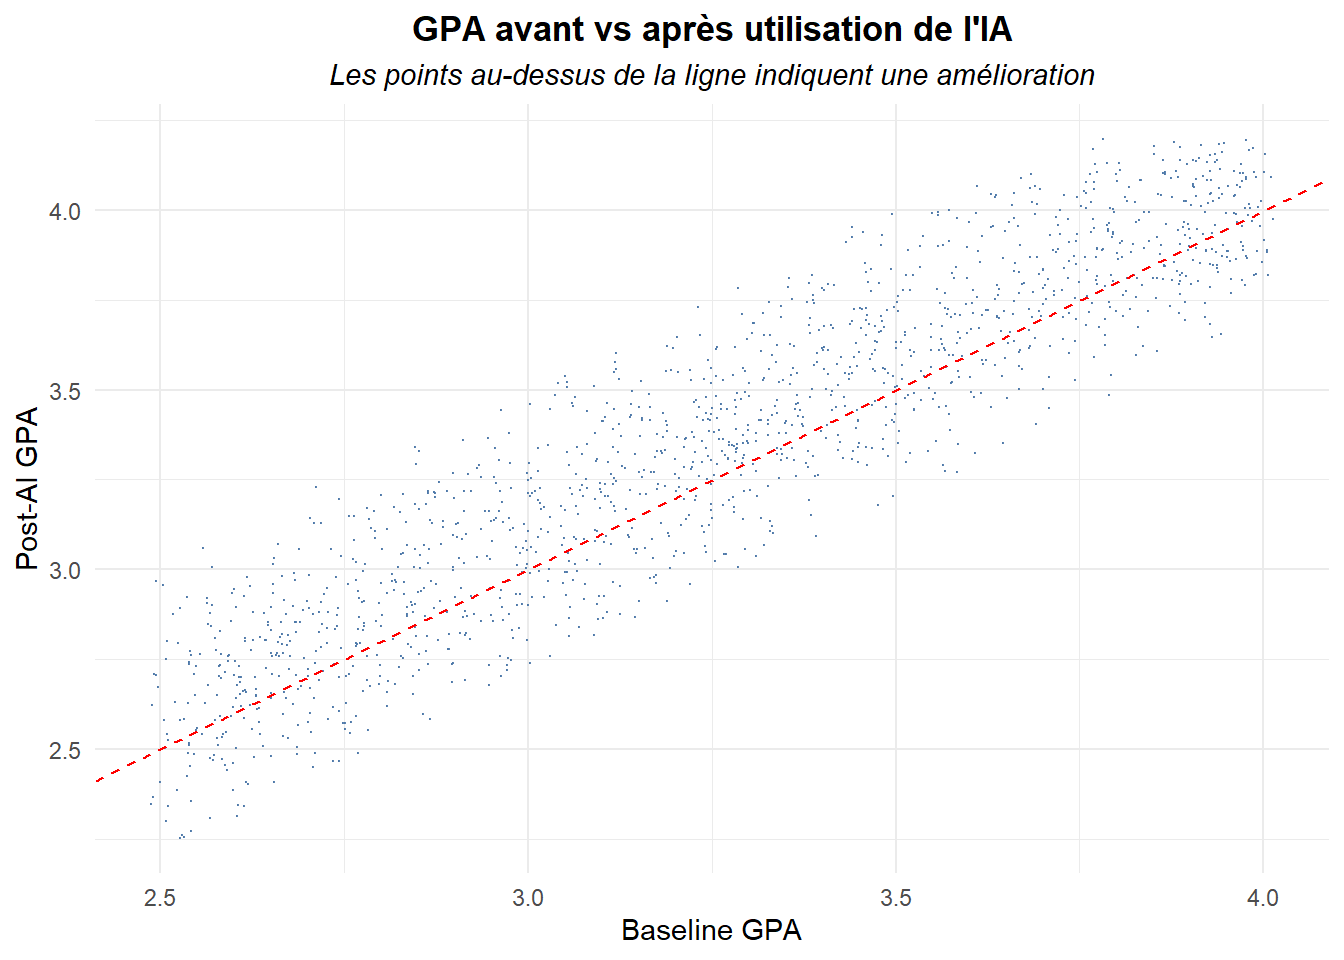
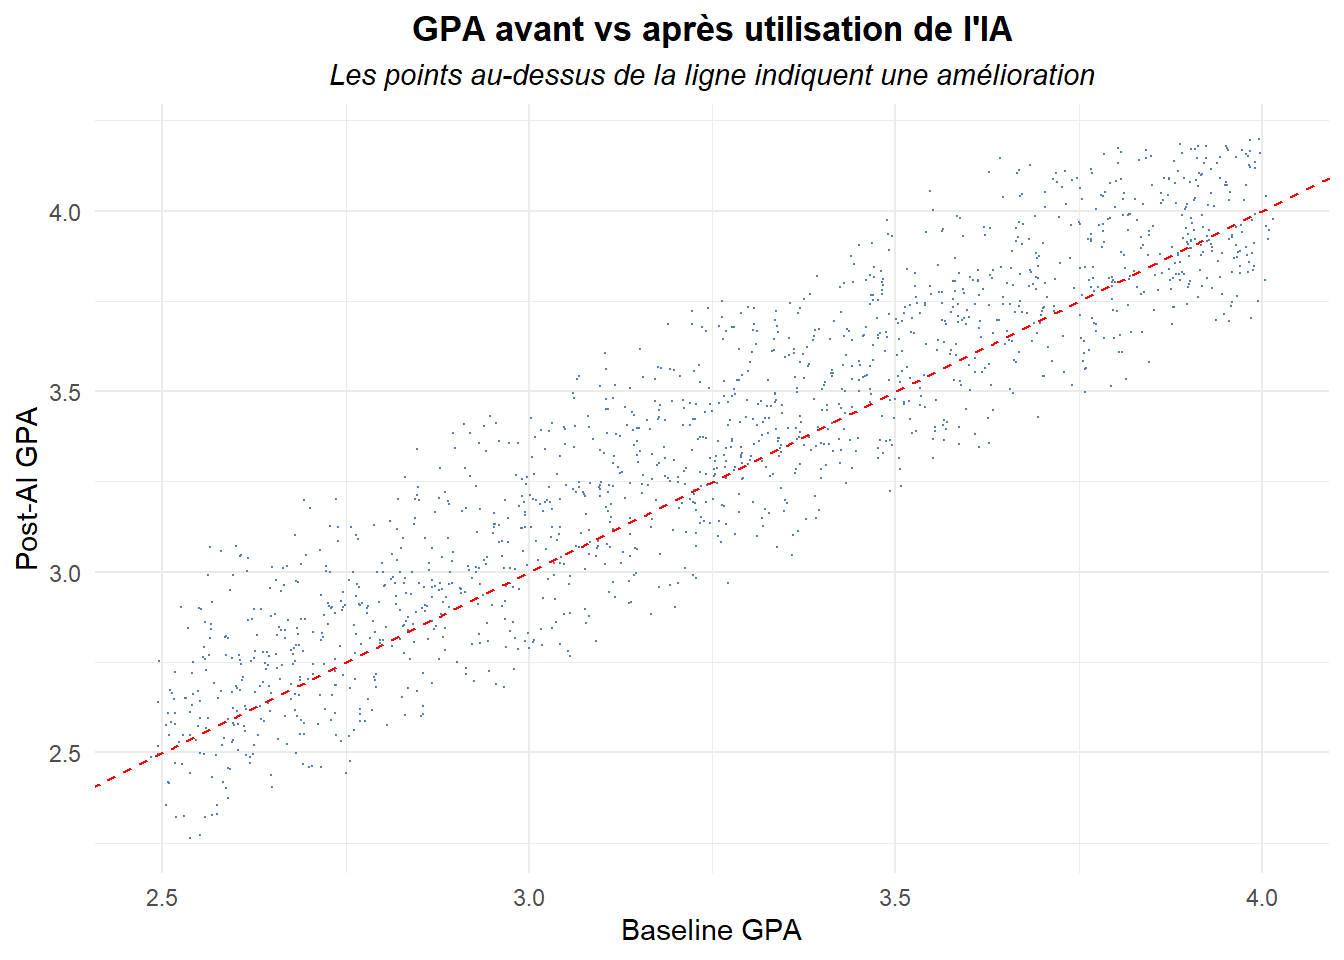
Update site

diff --git a/docs/fr/projects.html b/docs/fr/projects.html
@@ -181,10 +181,10 @@ pre > code.sourceCode > span > a:first-child::before { text-decoration: underlin
   <ul class="collapse">
   <li><a href="#ressources-du-projet" id="toc-ressources-du-projet" class="nav-link" data-scroll-target="#ressources-du-projet">Ressources du projet</a></li>
   <li><a href="#sec-project-overview" id="toc-sec-project-overview" class="nav-link" data-scroll-target="#sec-project-overview">Aperçu du projet</a></li>
-  <li><a href="#analyse-des-données" id="toc-analyse-des-données" class="nav-link" data-scroll-target="#analyse-des-données">Analyse des données</a></li>
-  <li><a href="#sec-analytical-questions" id="toc-sec-analytical-questions" class="nav-link" data-scroll-target="#sec-analytical-questions">Questions analytiques et variables principales</a></li>
-  <li><a href="#sec-data-preparation" id="toc-sec-data-preparation" class="nav-link" data-scroll-target="#sec-data-preparation">Chargement et préparation des données (character variables -&gt; factors)</a>
+  <li><a href="#analyse-des-données" id="toc-analyse-des-données" class="nav-link" data-scroll-target="#analyse-des-données">Analyse des données</a>
   <ul class="collapse">
+  <li><a href="#sec-analytical-questions" id="toc-sec-analytical-questions" class="nav-link" data-scroll-target="#sec-analytical-questions">Questions analytiques et variables principales</a></li>
+  <li><a href="#sec-data-preparation" id="toc-sec-data-preparation" class="nav-link" data-scroll-target="#sec-data-preparation">Chargement et préparation des données (character variables -&gt; factors)</a></li>
   <li><a href="#changement-de-gpa" id="toc-changement-de-gpa" class="nav-link" data-scroll-target="#changement-de-gpa">Changement de GPA</a></li>
   <li><a href="#sec-career-confidence" id="toc-sec-career-confidence" class="nav-link" data-scroll-target="#sec-career-confidence">Confiance dans la carrière</a></li>
   <li><a href="#sec-ai-usage" id="toc-sec-ai-usage" class="nav-link" data-scroll-target="#sec-ai-usage">Utilisation et adoption de l’IA</a></li>
@@ -253,9 +253,8 @@ pre > code.sourceCode > span > a:first-child::before { text-decoration: underlin
 </section>
 <section id="analyse-des-données" class="level2">
 <h2 class="anchored" data-anchor-id="analyse-des-données">Analyse des données</h2>
-</section>
-<section id="sec-analytical-questions" class="level2">
-<h2 class="anchored" data-anchor-id="sec-analytical-questions">Questions analytiques et variables principales</h2>
+<section id="sec-analytical-questions" class="level3">
+<h3 class="anchored" data-anchor-id="sec-analytical-questions">Questions analytiques et variables principales</h3>
 <p>L’analyse se concentre sur cinq questions principales :</p>
 <ol type="1">
 <li>Existe-t-il un changement mesurable de la moyenne générale (GPA) après l’utilisation de l’IA ?</li>
@@ -283,8 +282,8 @@ pre > code.sourceCode > span > a:first-child::before { text-decoration: underlin
 </div>
 <hr>
 </section>
-<section id="sec-data-preparation" class="level2">
-<h2 class="anchored" data-anchor-id="sec-data-preparation">Chargement et préparation des données (character variables -&gt; factors)</h2>
+<section id="sec-data-preparation" class="level3">
+<h3 class="anchored" data-anchor-id="sec-data-preparation">Chargement et préparation des données (character variables -&gt; factors)</h3>
 <div class="cell">
 <div class="code-copy-outer-scaffold"><div class="sourceCode cell-code" id="cb1"><pre class="sourceCode r code-with-copy"><code class="sourceCode r"><span id="cb1-1"><a href="#cb1-1" aria-hidden="true" tabindex="-1"></a><span class="fu">library</span>(tidyverse)</span></code></pre></div><button title="Copier vers le presse-papier" class="code-copy-button"><i class="bi"></i></button></div>
 <div class="cell-output cell-output-stderr">
@@ -382,6 +381,7 @@ $ Career_Confidence_Score &lt;dbl&gt; 3, 4, 7, 5, 9, 4, 1, 9, 8, 3, 4, 10, 4, 3,
 </div>
 <p>Le jeu de données contient 1 500 observations et aucune valeur manquante. Les variables de caractères ont été converties en facteurs, et une nouvelle variable, <code>gpa_diff</code>, a été créée pour mesurer la différence entre la GPA après l’IA et la GPA de base.</p>
 <hr>
+</section>
 <section id="changement-de-gpa" class="level3">
 <h3 class="anchored" data-anchor-id="changement-de-gpa">Changement de GPA</h3>
 <section id="sec-gpa-descriptive" class="level4">
@@ -573,7 +573,7 @@ $ Career_Confidence_Score &lt;dbl&gt; 3, 4, 7, 5, 9, 4, 1, 9, 8, 3, 4, 10, 4, 3,
 </div>
 </div>
 <p>La distribution est discrétisée, très probablement en raison d’effets d’arrondi dans les valeurs de GPA : un score de GPA dans le présent jeu de données est systématiquement arrondi.</p>
-<p>Cela limite la normalité stricte, mais la taille de l’échantillon (=1500) est suffisamment grande pour que le <strong>test t apparié</strong> reste robuste. Un <strong>test des rangs signés de Wilcoxon</strong> non paramétrique est également utilisé comme contrôle de robustesse dans la <a href="#sec-gpa-tests" class="quarto-xref">Section&nbsp;1.5.1.3</a>.</p>
+<p>Cela limite la normalité stricte, mais la taille de l’échantillon (=1500) est suffisamment grande pour que le <strong>test t apparié</strong> reste robuste. Un <strong>test des rangs signés de Wilcoxon</strong> non paramétrique est également utilisé comme contrôle de robustesse dans la <a href="#sec-gpa-tests" class="quarto-xref">Section&nbsp;1.3.3.3</a>.</p>
 <hr>
 </section>
 <section id="sec-gpa-tests" class="level4">
@@ -593,7 +593,7 @@ $ Career_Confidence_Score &lt;dbl&gt; 3, 4, 7, 5, 9, 4, 1, 9, 8, 3, 4, 10, 4, 3,
 <p><strong>Hypothèse nulle (H0) :</strong> Il n’y a pas de différence moyenne entre la GPA de base et la GPA post-IA.</p>
 <p><strong>Hypothèse alternative (H1) :</strong> Il existe une différence moyenne entre la GPA de base et la GPA post-IA.</p>
 <p><strong>Méthode :</strong> Un test t apparié est utilisé car les deux mesures de GPA sont observées pour les mêmes étudiants.</p>
-<p><strong>Hypothèses :</strong> L’hypothèse clé de normalité s’applique aux différences appariées. Comme le montre la <a href="#sec-gpa-distribution" class="quarto-xref">Section&nbsp;1.5.1.2</a>, la différence est discrétisée et n’est pas parfaitement normale. Cependant, compte tenu de la grande taille de l’échantillon, le test t apparié devrait rester robuste.</p>
+<p><strong>Hypothèses :</strong> L’hypothèse clé de normalité s’applique aux différences appariées. Comme le montre la <a href="#sec-gpa-distribution" class="quarto-xref">Section&nbsp;1.3.3.2</a>, la différence est discrétisée et n’est pas parfaitement normale. Cependant, compte tenu de la grande taille de l’échantillon, le test t apparié devrait rester robuste.</p>
 </div>
 </div>
 <div class="cell">
@@ -624,7 +624,7 @@ $ Career_Confidence_Score &lt;dbl&gt; 3, 4, 7, 5, 9, 4, 1, 9, 8, 3, 4, 10, 4, 3,
 <p><strong>Hypothèse nulle (H0) :</strong> La différence médiane appariée est égale à zéro.</p>
 <p><strong>Hypothèse alternative (H1) :</strong> La différence médiane appariée n’est pas égale à zéro.</p>
 <p><strong>Méthode :</strong> Le test des rangs signés de Wilcoxon classe les différences appariées absolues et vérifie si les rangs positifs et négatifs sont équilibrés.</p>
-<p><strong>Raison de l’utilisation :</strong> Ce test est moins sensible aux écarts par rapport à la normalité et est approprié comme contrôle de robustesse après les résultats du diagnostic dans la <a href="#sec-gpa-distribution" class="quarto-xref">Section&nbsp;1.5.1.2</a>.</p>
+<p><strong>Raison de l’utilisation :</strong> Ce test est moins sensible aux écarts par rapport à la normalité et est approprié comme contrôle de robustesse après les résultats du diagnostic dans la <a href="#sec-gpa-distribution" class="quarto-xref">Section&nbsp;1.3.3.2</a>.</p>
 </div>
 </div>
 <div class="cell">
@@ -667,7 +667,7 @@ $ Career_Confidence_Score &lt;dbl&gt; 3, 4, 7, 5, 9, 4, 1, 9, 8, 3, 4, 10, 4, 3,
 <p><strong>Hypothèse nulle (H0) :</strong> Les variables d’utilisation de l’IA n’ont aucune association avec le changement de GPA.</p>
 <p><strong>Hypothèse alternative (H1) :</strong> Au moins une variable d’utilisation de l’IA est associée au changement de GPA.</p>
 <p><strong>Méthode :</strong> La régression MCO est utilisée comme premier modèle explicatif.</p>
-<p><strong>Hypothèses et diagnostics :</strong> Les diagnostics des résidus sont inspectés après l’estimation du modèle. Comme discuté dans la <a href="#sec-gpa-distribution" class="quarto-xref">Section&nbsp;1.5.1.2</a>, la variable dépendante est discrétisée, le modèle est donc traité comme exploratoire plutôt que définitif en termes d’analyse d’impact.</p>
+<p><strong>Hypothèses et diagnostics :</strong> Les diagnostics des résidus sont inspectés après l’estimation du modèle. Comme discuté dans la <a href="#sec-gpa-distribution" class="quarto-xref">Section&nbsp;1.3.3.2</a>, la variable dépendante est discrétisée, le modèle est donc traité comme exploratoire plutôt que définitif en termes d’analyse d’impact.</p>
 </div>
 </div>
 <div class="cell">
